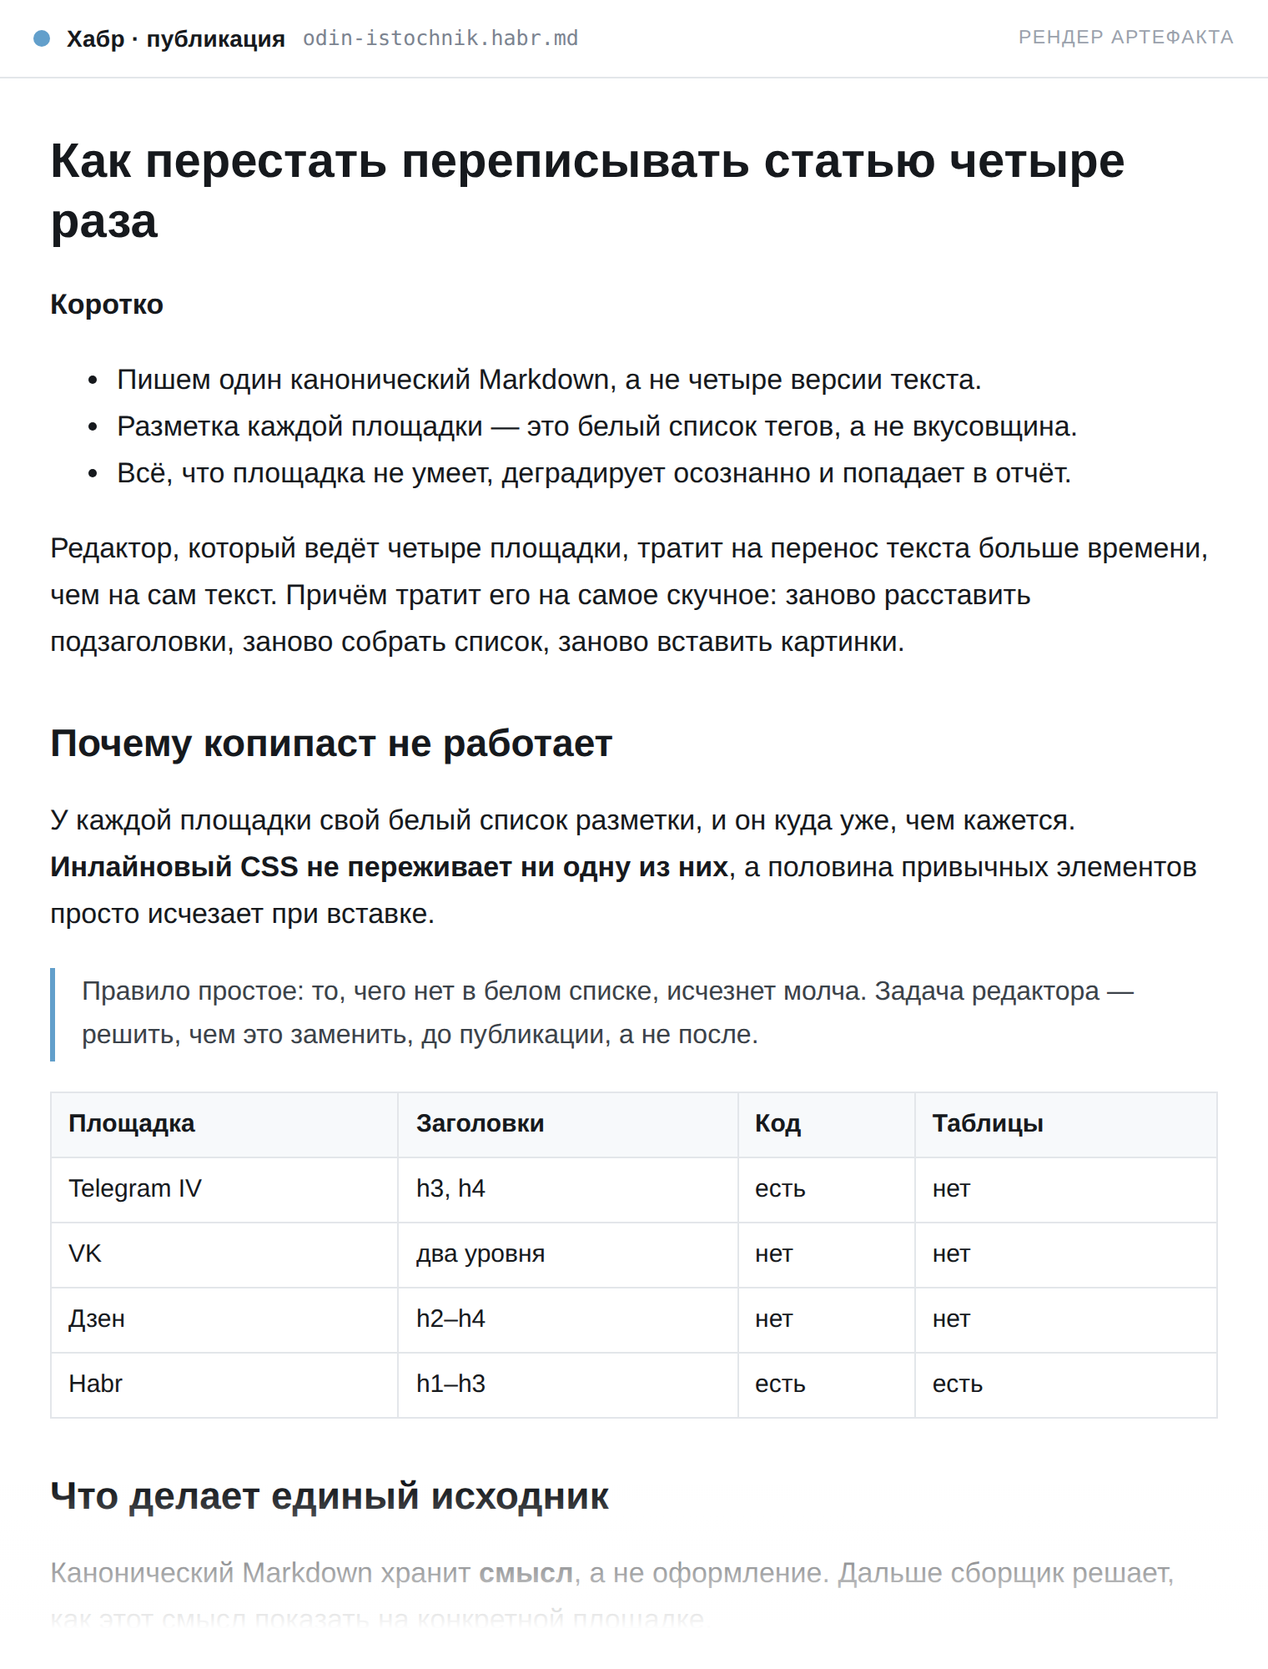
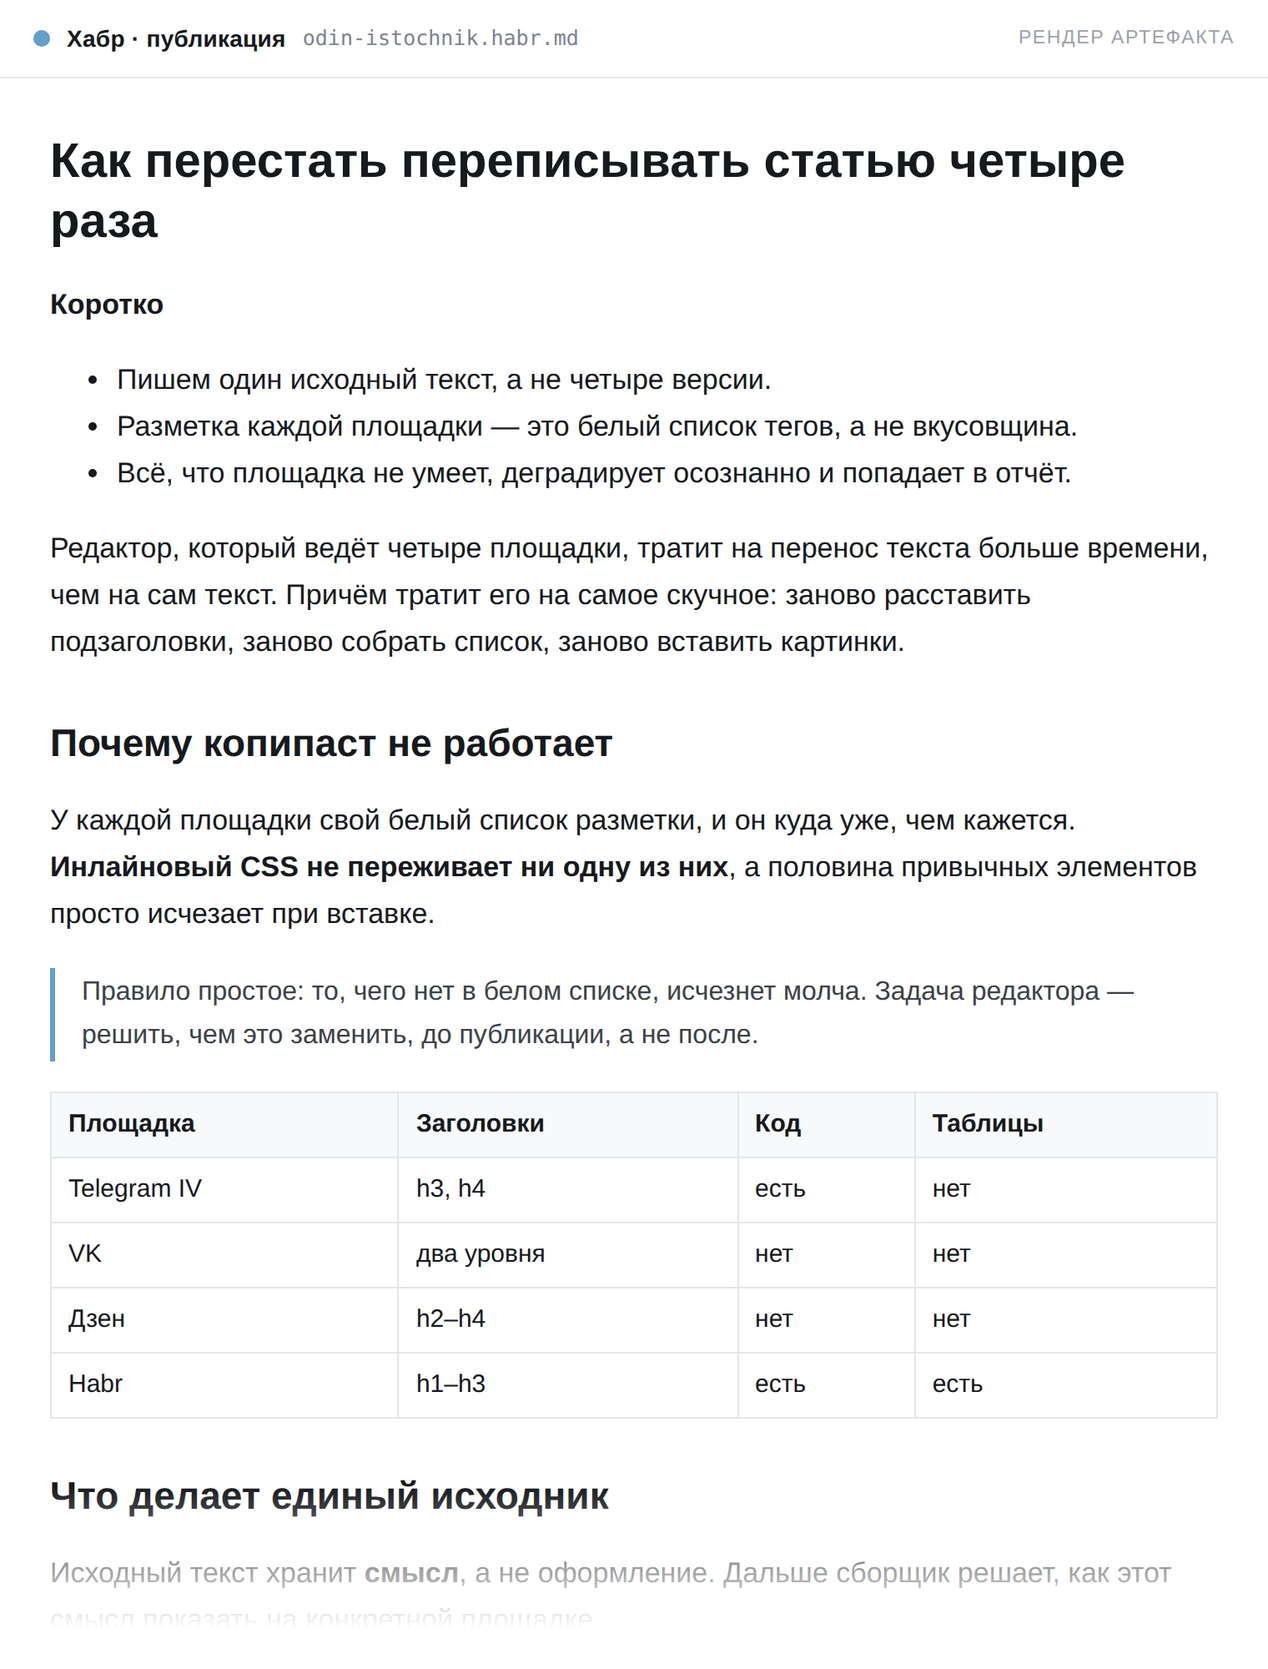
Единая терминология: «исходный текст» / source вместо «канонический»
«Канонический» в русском тексте — калька, и в статье про разработку она резала
глаз. Но несогласованность была глубже, чем язык: скрипт называется
source_lint.py и проверяет source, а документация в том же месте говорила
canonical. Теперь везде одно слово — «исходный текст» по-русски, source
по-английски.

Поле canonical: во фронтматтере не тронуто: это канонический URL статьи,
совсем другое значение, и переименование сломало бы и RSS для Дзена, и
og-разметку страницы IV.

Замена задела примеры статей, а на них сняты скриншоты README и опубликована
живая демо-страница. Оставить их значило бы, что README показывает не то, что
собирает скилл, — поэтому скриншоты пересняты, а страница telegra.ph обновлена
на месте.

Для обновления понадобилось научить telegraph_publish.py правке существующей
страницы (--edit). Пересоздавать её было нельзя: адрес стоит ссылкой в обоих
README, и новая публикация оставила бы «живое демо» ведущим на старый текст.

Changed region(s): [[0.0309, 0.93, 0.9276, 0.961], [0.2164, 0.217, 0.773, 0.248]]

diff --git a/scripts/telegraph_publish.py b/scripts/telegraph_publish.py
@@ -10,9 +10,14 @@ Usage:
     telegraph_publish.py post.telegram-iv.html --title "…" --token <access_token>
     telegraph_publish.py post.telegram-iv.html --title "…" --dry-run   # print JSON
 
+    # republish an existing page in place, keeping its URL:
+    telegraph_publish.py post.telegram-iv.html --title "…" \
+        --token <access_token> --edit My-Page-Path-01-02
+
 Without --token a throwaway account is created and its access_token is printed;
-save it if you want to edit the page later. Network access is required unless
---dry-run is used.
+save it — editing a page later is impossible without it, and republishing under
+a new URL breaks every link you have already shared. Network access is required
+unless --dry-run is used.
 
 Exit codes: 0 published (or dry run); 1 failure.
 """
@@ -107,6 +112,9 @@ def main():
     ap.add_argument("--author", default="")
     ap.add_argument("--author-url", default="")
     ap.add_argument("--token", help="existing telegra.ph access_token")
+    ap.add_argument("--edit", metavar="PATH",
+                    help="update this existing page instead of creating a new one "
+                         "(the part of the URL after telegra.ph/); requires --token")
     ap.add_argument("--dry-run", action="store_true", help="print the Node JSON, post nothing")
     args = ap.parse_args()
 
@@ -127,6 +135,11 @@ def main():
         print(json.dumps(nodes, ensure_ascii=False, indent=2))
         return 0
 
+    if args.edit and not args.token:
+        print("✗ --edit needs --token: only the account that created a page can "
+              "change it", file=sys.stderr)
+        return 1
+
     try:
         token = args.token
         if not token:
@@ -137,19 +150,23 @@ def main():
             })
             token = acct["access_token"]
             print("• new telegra.ph account — save this token to edit later:\n  %s" % token)
-        page = api("createPage", {
+        params = {
             "access_token": token,
             "title": args.title[:256],
             "author_name": args.author[:128],
             "author_url": args.author_url,
             "content": json.dumps(nodes, ensure_ascii=False),
             "return_content": "false",
-        })
+        }
+        if args.edit:
+            page = api("editPage/" + args.edit.strip("/"), params)
+        else:
+            page = api("createPage", params)
     except Exception as e:                       # network, API or JSON failure
         print("✗ publishing failed: %s" % e, file=sys.stderr)
         return 1
 
-    print("✓ published: %s" % page["url"])
+    print("✓ %s: %s" % ("updated" if args.edit else "published", page["url"]))
     print("  paste that URL in Telegram — the Instant View button is automatic")
     print("  feed it back as --iv-url to build_targets.py to link the announcement")
     return 0

diff --git a/scripts/build_targets.py b/scripts/build_targets.py
@@ -1,7 +1,7 @@
 #!/usr/bin/env python3
-"""Canonical Markdown -> Telegram Instant View / VK / Dzen / Habr artifacts.
+"""Source Markdown -> Telegram Instant View / VK / Dzen / Habr artifacts.
 
-The design work happens in the canonical source (structure, lede, callouts,
+The design work happens in the source (structure, lede, callouts,
 rhythm). This script does the deterministic part: it degrades that single
 source into each platform's *whitelisted* markup and reports every loss, so
 nothing silently disappears between the draft and the published post.
@@ -1075,7 +1075,7 @@ def build(path, outdir, platforms, slug=None, iv_url=None):
 def main():
     ap = argparse.ArgumentParser(description=__doc__,
                                  formatter_class=argparse.RawDescriptionHelpFormatter)
-    ap.add_argument("source", help="canonical Markdown file")
+    ap.add_argument("source", help="source Markdown file")
     ap.add_argument("-o", "--outdir", default="out")
     ap.add_argument("-p", "--platforms", default="all",
                     help="comma-separated: telegram,vk,dzen,habr (default all)")

diff --git a/scripts/typography_lint.py b/scripts/typography_lint.py
@@ -1,5 +1,5 @@
 #!/usr/bin/env python3
-"""Russian / English micro-typography linter for canonical Markdown.
+"""Russian / English micro-typography linter for the source Markdown.
 
 The original WeChat skill enforced full-width CJK punctuation. The EN/RU
 equivalent is this: proper quotation marks, real dashes, ellipses, no stray

diff --git a/scripts/source_lint.py b/scripts/source_lint.py
@@ -1,5 +1,5 @@
 #!/usr/bin/env python3
-"""Design gate for the canonical source, before anything is built.
+"""Design gate for the source, before anything is built.
 
 None of the four target platforms lets you style your way out of a badly
 structured article: no CSS survives, so rhythm, hierarchy and restraint are

diff --git a/SKILL.md b/SKILL.md
@@ -1,6 +1,6 @@
 ---
 name: crosspost-design
-description: Formats one article for Telegram Instant View, VK, Dzen and Habr, in English or Russian. Builds each platform's whitelisted markup from a single canonical Markdown source — telegra.ph/IV page, channel announcement, paste-safe VK article, Dzen content:encoded and RSS item, Habr Flavored Markdown — with section rhythm, TL;DR, callouts, footnotes, EN/RU micro-typography (« », —, …) and a report of what each platform degraded. Accepts Markdown, .docx, PDF and plain text. Use when the user mentions Instant View, telegra.ph, VK articles, Дзен, Хабр or cross-posting, or asks in Russian to «сверстать статью», «оформить статью для», «адаптировать под» площадку — or wants one text published on several platforms. Also for typography-only requests: "fix the typography", «починить типографику», «поправить кавычки и тире» — run typography_lint.py without building. Not for web pages or slide decks.
+description: Formats one article for Telegram Instant View, VK, Dzen and Habr, in English or Russian. Builds each platform's whitelisted markup from a single Markdown source — telegra.ph/IV page, channel announcement, paste-safe VK article, Dzen content:encoded and RSS item, Habr Flavored Markdown — with section rhythm, TL;DR, callouts, footnotes, EN/RU micro-typography (« », —, …) and a report of what each platform degraded. Accepts Markdown, .docx, PDF and plain text. Use when the user mentions Instant View, telegra.ph, VK articles, Дзен, Хабр or cross-posting, or asks in Russian to «сверстать статью», «оформить статью для», «адаптировать под» площадку — or wants one text published on several platforms. Also for typography-only requests: "fix the typography", «починить типографику», «поправить кавычки и тире» — run typography_lint.py without building. Not for web pages or slide decks.
 ---
 
 # Multi-platform post design — Telegram IV · VK · Dzen · Habr
@@ -14,8 +14,8 @@ is not decoration. It is *structure*: section rhythm, one clear anchor per
 section, a lede that survives as a feed snippet, and typography (« », — , …,
 non-breaking spaces) that platforms preserve because it is Unicode, not style.
 
-The pipeline is: **canonical Markdown → deterministic build → validation.**
-You do the editorial work in the canonical source. Scripts do the mechanical
+The pipeline is: **one Markdown source → deterministic build → validation.**
+You do the editorial work in that source. Scripts do the mechanical
 degradation and tell you exactly what each platform lost.
 
 ## Workflow
@@ -56,7 +56,7 @@ skeleton — lede, TL;DR, section count, where callouts and images belong, how t
 piece ends — which is what keeps articles of the same type feeling consistent.
 Do not improvise a structure per article.
 
-### 3. Write the canonical source
+### 3. Write the source
 
 One file, one truth. Front matter plus body, using only the conventions in
 [references/common-components.md](references/common-components.md):
@@ -220,7 +220,7 @@ the most common way to lose a day.
 
 ## Gotchas (the ones that actually bite)
 
-- **Writing HTML by hand for a platform.** Always go through the canonical
+- **Writing HTML by hand for a platform.** Always go through the
   source and rebuild; the outputs are build artifacts.
 - **Silent degradation.** A table pasted into VK simply vanishes. If the report
   says something degraded, either accept it explicitly or restructure the source.
@@ -254,7 +254,7 @@ New platforms go in `references/platform-{name}.md` and must document:
 
 1. **Accepted tags and attributes** (with the source you verified it against).
 2. **Ingestion path** — paste, HTML, Markdown, RSS, API.
-3. **Element map** — what each canonical element becomes, and what it degrades to.
+3. **Element map** — what each source element becomes, and what it degrades to.
 4. **Hard limits** — lengths, image sizes, heading depth.
 5. **Editorial conventions** — what the audience there expects.
 

diff --git a/README.md b/README.md
@@ -1,6 +1,6 @@
 # crosspost-design · Telegram IV · ВКонтакте · Дзен · Хабр
 
-**Один канонический Markdown → четыре опубликованные статьи, на русском или английском.**
+**Один исходный текст → четыре опубликованные статьи, на русском или английском.**
 
 Скилл для агента (Claude Code / Codex / Cursor …), который верстает статью под
 Telegram Instant View, ВК, Дзен и Хабр — площадки, каждая из которых вырезает
@@ -147,7 +147,7 @@ python3 scripts/wrap_preview.py out/odin-istochnik.vk.html
 `telegraph_publish.py`. (Playwright нужен исключительно для пересъёмки картинок
 к этому README и в работе скилла не участвует.)
 
-## Канонический исходник
+## Исходный текст
 
 ```markdown
 ---
@@ -196,7 +196,7 @@ references/
   typography-ru.md              «ёлочки», тире, неразрывные пробелы
   typography-en.md              curly quotes, em/en dash, ellipsis
   structure-recipes.md          тип статьи → скелет; пять профилей голоса
-  common-components.md          каноническая разметка → рендеринг по площадкам
+  common-components.md          исходная разметка → рендеринг по площадкам
   format-normalize.md           docx / pdf / текст / rich text → Markdown
   eval-cases.md                 регрессионные кейсы
 scripts/

diff --git a/assets/sample-article.ru.md b/assets/sample-article.ru.md
@@ -12,7 +12,7 @@ tone: editorial
 # Как перестать переписывать статью четыре раза
 
 :::tldr
-- Пишем один канонический Markdown, а не четыре версии текста.
+- Пишем один исходный текст, а не четыре версии.
 - Разметка каждой площадки — это белый список тегов, а не вкусовщина.
 - Всё, что площадка не умеет, деградирует осознанно и попадает в отчёт.
 :::
@@ -36,7 +36,7 @@ tone: editorial
 
 ## Что делает единый исходник
 
-Канонический Markdown хранит **смысл**, а не оформление. Дальше сборщик решает, как этот смысл показать на конкретной площадке.
+Исходный текст хранит **смысл**, а не оформление. Дальше сборщик решает, как этот смысл показать на конкретной площадке.
 
 1. Разбираем текст в дерево блоков.
 2. Для каждой площадки применяем её карту разметки.

diff --git a/README.en.md b/README.en.md
@@ -1,6 +1,6 @@
 # crosspost-design · Telegram IV · VK · Dzen · Habr
 
-**One canonical Markdown source → four published articles, in English or Russian.**
+**One Markdown source → four published articles, in English or Russian.**
 
 An agent skill (Claude Code / Codex / Cursor …) that formats an article for
 Telegram Instant View, VK, Dzen and Habr — platforms that all strip CSS and
@@ -148,7 +148,7 @@ Python 3 standard library only. No dependencies, no network except
 `telegraph_publish.py`. (Playwright is needed only to regenerate this README's
 images and plays no part in the skill itself.)
 
-## The canonical source
+## The source
 
 ```markdown
 ---
@@ -197,7 +197,7 @@ references/
   typography-ru.md              «ёлочки», тире, неразрывные пробелы
   typography-en.md              curly quotes, em/en dash, ellipsis
   structure-recipes.md          article type → skeleton; five voice profiles
-  common-components.md          canonical syntax → per-platform rendering
+  common-components.md          source syntax → per-platform rendering
   format-normalize.md           docx / pdf / plain text / rich text → Markdown
   eval-cases.md                 regression cases
 scripts/

diff --git a/references/common-components.md b/references/common-components.md
@@ -1,8 +1,8 @@
-# Component library — canonical syntax and what it becomes
+# Component library — source syntax and what it becomes
 
 This is the equivalent of a theme's component library, except that the
 "components" cannot carry colour, spacing or type. They carry *semantics*, and
-each platform renders them with whatever it has. Write the canonical source
+each platform renders them with whatever it has. Write the source
 using only what is documented here — anything else is guesswork at build time.
 
 Every example below is real input for `scripts/build_targets.py`.
@@ -86,7 +86,7 @@ preview text on a separate screen).
 
 ## 3. Emphasis
 
-| Canonical | Meaning | telegra.ph | TG post | VK | Dzen | Habr |
+| Source | Meaning | telegra.ph | TG post | VK | Dzen | Habr |
 |---|---|---|---|---|---|---|
 | `**bold**` | the anchor of a section | `<strong>` | `<b>` | `<b>` | `<b>` | `**` |
 | `*italic*` | a term, a title, a voice shift | `<em>` | `<i>` | `<i>` | `<i>` | `*` |

diff --git a/references/format-normalize.md b/references/format-normalize.md
@@ -1,6 +1,6 @@
-# Format normalisation — everything becomes canonical Markdown first
+# Format normalisation — everything becomes source Markdown first
 
-The build pipeline only understands the canonical Markdown described in
+The build pipeline only understands the source Markdown described in
 [common-components.md](common-components.md). Anything else gets converted here
 first, then confirmed with the user, then built. Conversion **restructures, it
 never rewrites** — no added, cut or reworded content.
@@ -98,6 +98,6 @@ When the user says "just build it", "no questions", "one shot":
    headings you invented, platforms chosen and why, and the degradation summary
    from the build report.
 3. If the user dislikes a decision, change that one thing and rebuild — the
-   canonical source makes this cheap.
+   source makes this cheap.
 
 Default when the genre gives no signal: build all four targets.

diff --git a/assets/sample-article.en.md b/assets/sample-article.en.md
@@ -12,7 +12,7 @@ tone: editorial
 # Stop rewriting the same article four times
 
 :::tldr
-- Keep one canonical Markdown source instead of four drafts.
+- Keep one Markdown source instead of four drafts.
 - Each platform’s markup is a whitelist, not a matter of taste.
 - Whatever a platform cannot render degrades on purpose, and lands in a report.
 :::
@@ -36,7 +36,7 @@ Every platform accepts a whitelist of markup, and it is far shorter than people 
 
 ## What a single source buys you
 
-Canonical Markdown stores **meaning**, not presentation. The builder then decides how that meaning shows up on a given platform.
+The source stores **meaning**, not presentation. The builder then decides how that meaning shows up on a given platform.
 
 1. Parse the text into a block tree.
 2. Apply each platform’s markup map.

diff --git a/references/platform-telegram.md b/references/platform-telegram.md
@@ -92,7 +92,7 @@ report. If it truncated, shorten the lede rather than accepting the cut.
 
 ## Element map
 
-| Canonical | telegra.ph page | Channel post |
+| Source | telegra.ph page | Channel post |
 |---|---|---|
 | `## Section` | `<h3>` | omitted (post is not an outline) |
 | `### Sub` | `<h4>` | omitted |
